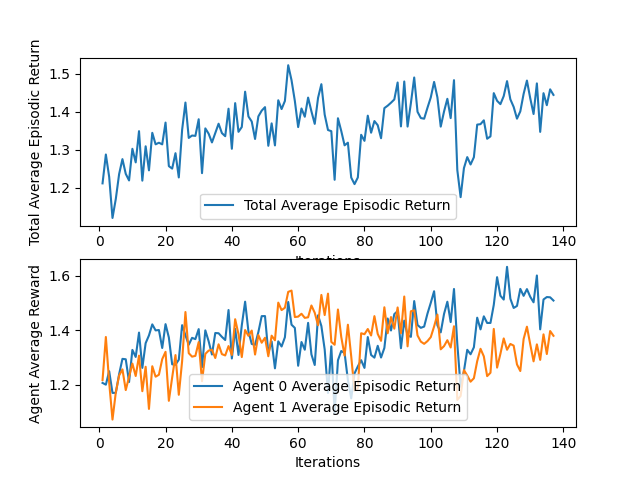
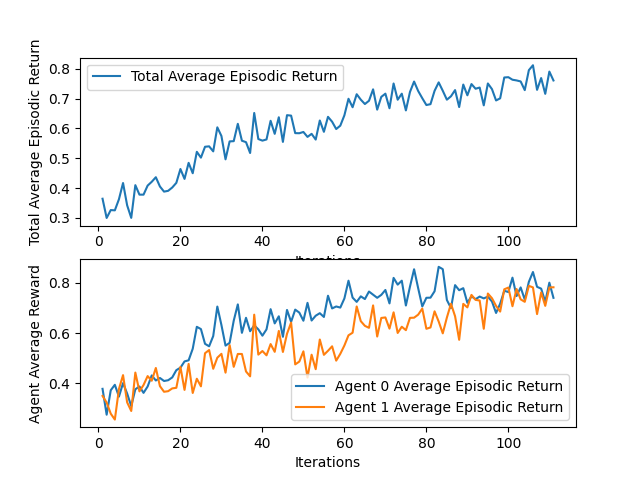
fix to reward to improve perf

diff --git a/marl_mpe/envs/navigation.py b/marl_mpe/envs/navigation.py
@@ -24,10 +24,10 @@ class GridWorldEnv(gym.Env):
         self.gifting = gifting
 
         # coordination-specific info (incorporates flocking vs compliment actions in action space)
-        self.nature_based = True 
+        self.nature_based = False 
 
         # reward info
-        self.collision_radius_threshold = 2.0
+        self.collision_radius_threshold = 1.0
         self.collision_penalty = 1.0
         self.proximity_reward = 0.5
         self.goal_reward = 1.0
@@ -238,6 +238,9 @@ class GridWorldEnv(gym.Env):
         distance_to_goal = np.linalg.norm(current_loc - target)
         distance_to_goal = np.clip(distance_to_goal, a_min=1e-10, a_max=None)
 
+        # Check if the agent is on the goal
+        on_goal = distance_to_goal < 1e-5  # You might need to adjust this threshold
+
         # Check for collisions with other agents
         collision_penalty_sum = 0.0
 
@@ -253,8 +256,10 @@ class GridWorldEnv(gym.Env):
                 if distance_to_other_agent < self.collision_radius_threshold:
                     collision_penalty_sum += self.collision_penalty
 
+
         # Calculate the total reward
-        total_reward = self.goal_reward - collision_penalty_sum + proximity_reward # self.proximity_reward / (distance_to_goal + 1e-10)
+        total_reward = self.goal_reward - collision_penalty_sum + proximity_reward if on_goal else -collision_penalty_sum + proximity_reward
+         # self.proximity_reward / (distance_to_goal + 1e-10)
         # print(f'reward update info: total reward: {total_reward} \n for goal reward: {self.goal_reward} with collision penalty {collision_penalty_sum} \n prox output: {self.proximity_reward / (distance_to_goal + 1e-10)}')
         return total_reward
 

diff --git a/marl_mpe/render_policy.py b/marl_mpe/render_policy.py
@@ -19,7 +19,7 @@ time_delay = False
 # obs_dim = 10 if share_orientation else 6
 # obs_dim = obs_dim + 5 if time_delay else obs_dim
 obs_dim = 8 # 13 # 8 # 13
-act_dim = 5 # if gifting else 4 
+act_dim = 4 #5 # if gifting else 4 
 num_agents = 2
 
 # Define the actor and critic models
